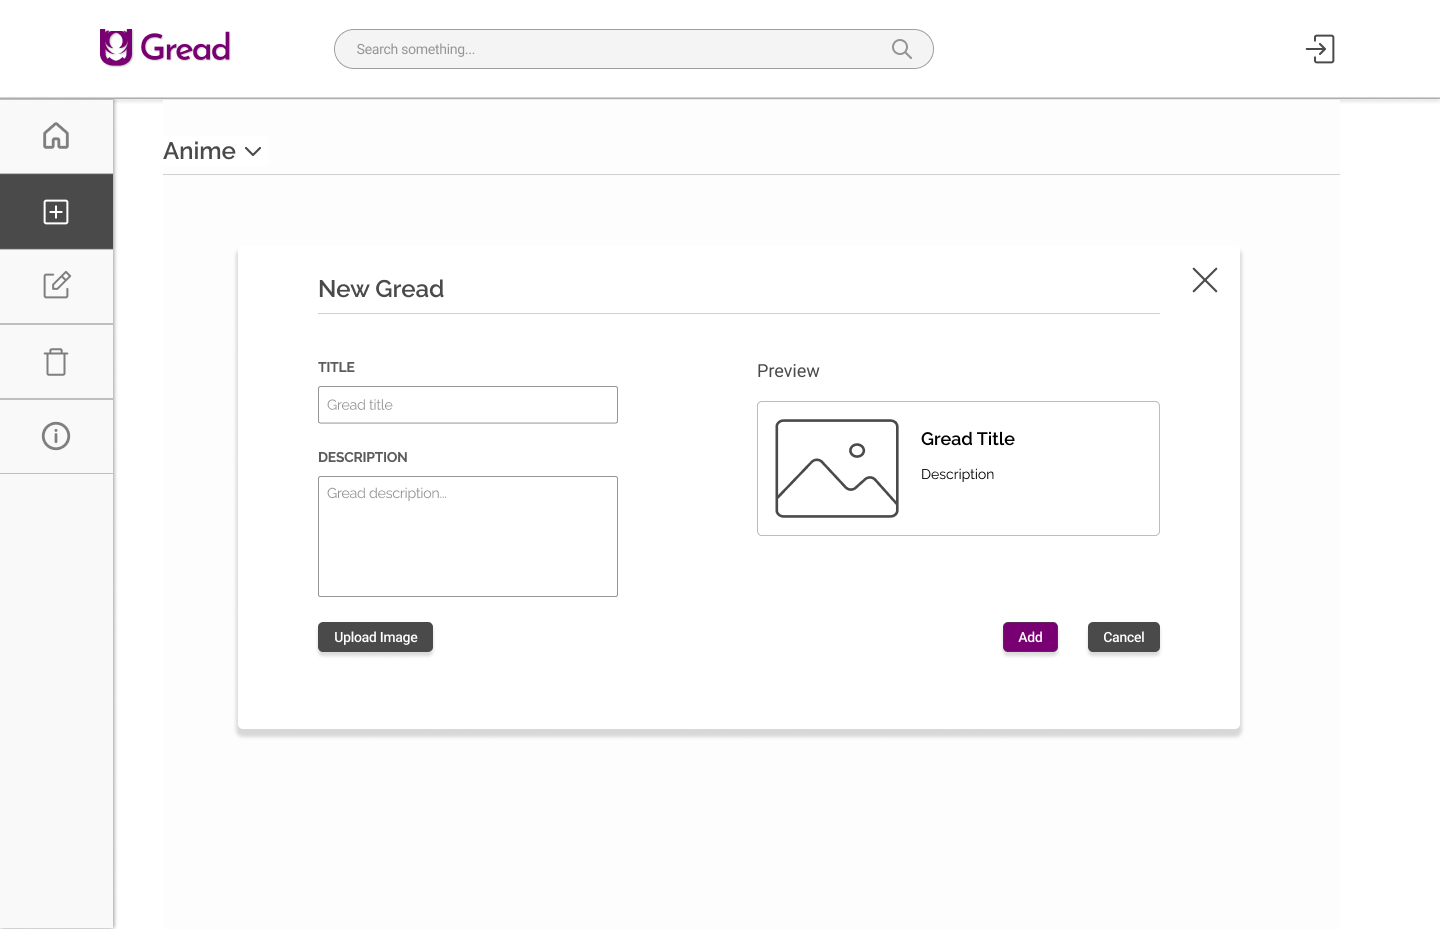
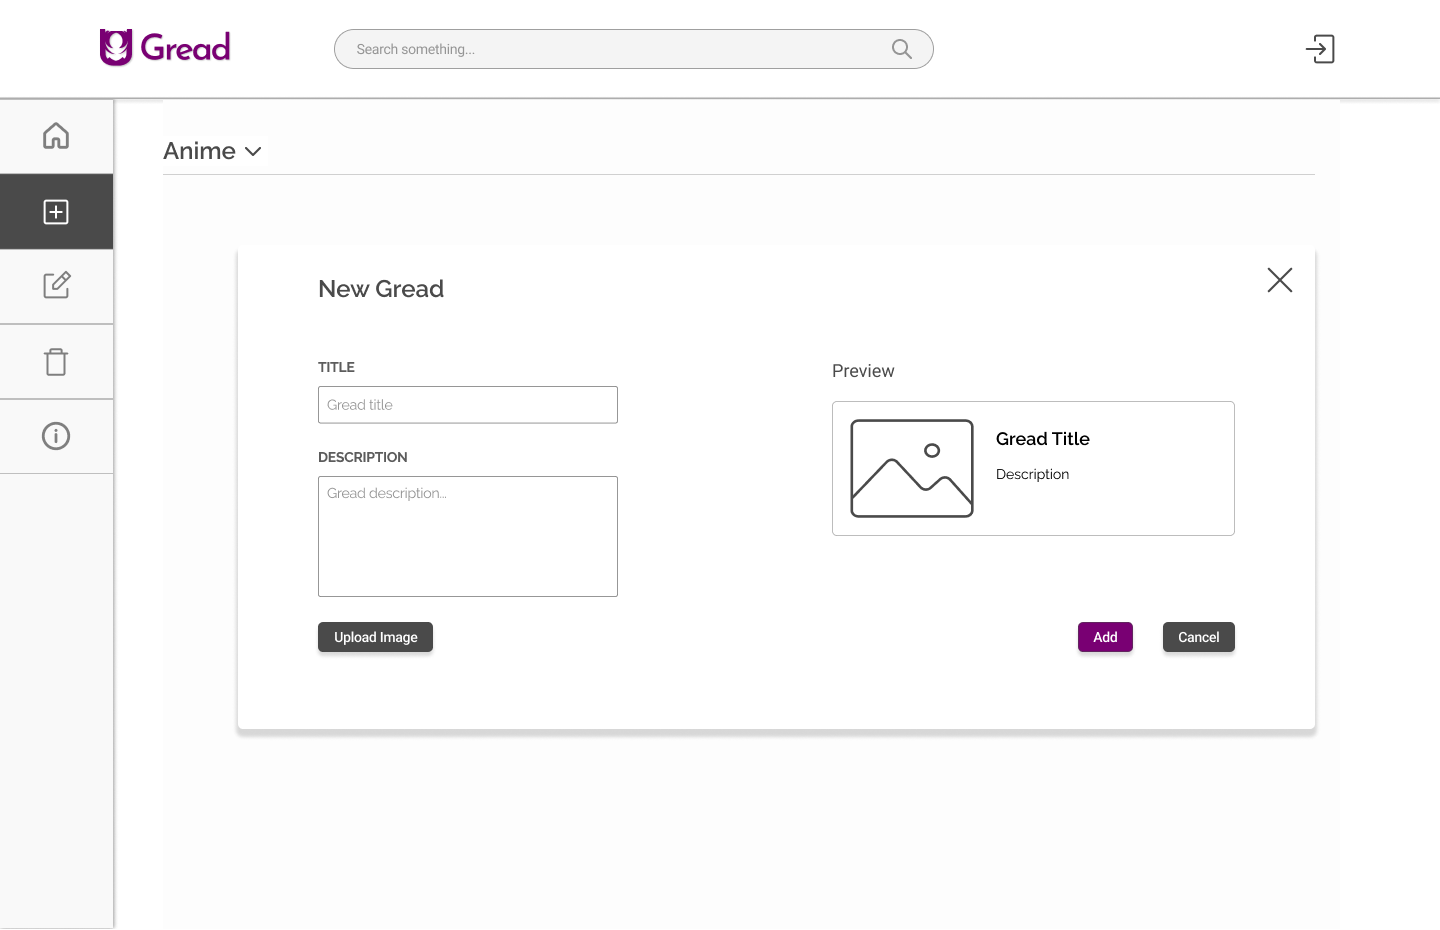
Rough mobile UI of dashboard template draft

diff --git a/utilities/css/dashboard.css b/utilities/css/dashboard.css
@@ -89,7 +89,7 @@
 .gread-content-container {
     display: grid;
     grid-template-columns: 1fr;
-    grid-template-rows: repeat(2, min-content);
+    grid-template-rows: repeat(3, min-content);
     padding: 2.1875rem 1.875rem 3.125rem;
 }
 .gread-content-header {
@@ -99,6 +99,7 @@
     grid-template-areas:
     "header filter"
     "divider divider";
+    margin-bottom: 2.6rem;
 }
 .gread-header-box {
     grid-area: header;
@@ -134,6 +135,79 @@
     font-size: 0.875rem;
     font-weight: 500;
     letter-spacing: -0.2px;
+}
+/* Greads */
+.gread-content-body {
+    display: flex;
+    flex-direction: column;
+}
+.gread-box {
+    position: relative;
+    max-height: 8.5rem;
+    display: flex;
+    column-gap: 1.125rem;
+    min-width: 0;
+    padding: 0.9375rem;
+    border: 0.7px solid #66666666;
+    border-radius: 4px;
+    margin-bottom: 1.5625rem;
+}
+.gread-text-box {
+    width: 100%;
+    display: flex;
+    flex-direction: column;
+    align-items: flex-start;
+    justify-content: center;
+}
+.gread-title {
+    font-size: 0.875rem;
+    margin-bottom: 0.45rem;
+    color: #000000;
+}
+.gread-description {
+    width: 90%;
+    font-size: 0.6875rem;
+    font-weight: 500;
+    line-height: 135%;
+    padding: 0.25rem 0rem;
+    margin: 0rem;
+    color: #000000;
+}
+.gread-description, .gread-thumbnail-box,.gread-thumbnail {
+    max-height: 73px;
+}
+.select-option-box {
+    position: absolute;
+    right: 0px;
+    top: 0px;
+}
+.checked, .unchecked {
+    display: none;
+}
+/* Pagination */
+.pagination-box {
+    display: flex;
+    align-items: center;
+    justify-content: center;
+}
+.pagination-link, .pagination-item {
+    display: block;
+    margin: 0rem 0.09375rem;
+    padding: 0.375rem 0.75rem;
+    border: 1px solid #4A4A4A80;
+    border-radius: 1px;
+}
+.pagination-link {
+    font-family: 'Josefin Sans', sans-serif;
+    font-size: 1rem;
+    color: var(--secondary);
+}
+.pagination-active {
+    color: #FFFFFFE6;
+    background-color: var(--primary);
+}
+.inactive {
+    color: var(--light-paragraph);
 }
 @media all and (min-width: 425px) {
     .d-nav-box {
@@ -205,14 +279,14 @@
     .main-container {
         display: grid;
         grid-template-columns: 0.7fr 8fr;
-        grid-template-rows: minmax(fit-content, max-content);
+        grid-template-rows: min-content;
     }
     .d-logo-box {
         margin-right: calc(5rem + 0.5rem);
     }
     .desktop-search-box {
         position: relative;
-        top: 0.1rem;
+        top: 0px;
         min-width: 35vw;
         max-width: 40vw;
         display: flex;
@@ -224,10 +298,15 @@
     .desktop-search-field {
         width: 100%;
         font-size: 0.875rem;
+        font-family: 'Roboto', sans-serif;
+        letter-spacing: -0.2px;
         padding: 0.45rem 3rem 0.45rem 1.25rem;
-        border: 1px solid hsla(0, 0%, 29%, 0.5);
+        border: 1px solid #4a4a4a80;
         border-radius: 25px;
         background-color: #f4f4f4;
+    }
+    .desktop-search-field::placeholder {
+        color: #959595;
     }
     .desktop-search-button {
         position: absolute;
@@ -251,14 +330,20 @@
     .mobile-search-container {
         display: none;
     }
+    .navigation {
+        background-color: #F9F9F9;
+        box-shadow: 2px 0px 4px hsla(0, 0%, 0%, 0.2), -1px 0px 4px hsla(0, 0%, 0%, 0.2);
+    }
     .navigation-actions {
-        height: 100vmin;
+        height: 100vh;
         flex-direction: column;
         align-items: center;
         justify-content: flex-start;
         padding: 0px;
         background-color: #F9F9F9;
-        box-shadow: 2px 0px 4px #00000040, -1px 0px 4px #00000040;
+    }
+    .d-nav-box {
+        box-shadow: none;
     }
     .action-box {
         width: 100%;
@@ -294,5 +379,67 @@
     .active-icon path {
         stroke: #FFFFFF;
         stroke-width: 2.83px;
+    }
+    .gread-content-container {
+        padding-left: 2.5rem;
+        padding-right: 5rem;
+    }
+    .gread-content-header {
+        grid-template-rows: repeat(3, min-content);
+        grid-template-areas:
+        "header header"
+        "divider divider"
+        "filter filter";
+        margin-bottom: 2rem;
+    }
+    .gread-content-body {
+        flex-direction: row;
+        flex-wrap: wrap;
+        column-gap: 20%;
+        padding: 0rem 0rem 4.0625rem 4.0625rem;        
+    }
+    .gread-box {
+        width: 40%;
+    }
+}
+@media all and (min-width: 1440px) {
+    /* Header */
+    .d-logo-box {
+        margin-right: 4.7rem;
+    }
+    .desktop-search-box {
+        min-width: 42.05vw;
+        max-width: 44vw;
+    }
+    .desktop-search-field {
+        padding: 0.45rem 3rem 0.45rem 1.1rem;
+    }
+    .desktop-search-button {
+        top: 1px;
+        right: 0.5rem;
+    }
+    /* Main */
+    .main-container {
+        grid-template-columns: 0.69fr 8fr;
+    }
+    .action-box {
+        padding: 1.02rem 0rem;
+    }
+    .action-icon {
+        transform: scale(1.1);
+    }
+    /* Gread Content */
+    .gread-content-container {
+        padding-top: 1.8rem;
+        padding-right: 6.25rem;
+    }
+    .gread-header {
+        font-size: 1.2rem;
+    }
+    .filter-box {
+        padding: 0.8rem 0rem 0rem;
+    }
+    .current-filter {
+        font-size: 0.8rem;
     }
 }

diff --git a/index.php b/index.php
@@ -27,7 +27,7 @@ require_once "./utilities/php_snippets/footer.php";
   ?>
   <link rel="preconnect" href="https://fonts.googleapis.com">
   <link rel="preconnect" href="https://fonts.gstatic.com" crossorigin>
-  <link href="https://fonts.googleapis.com/css2?family=Raleway:wght@300;400;500;600;700&family=Roboto:wght@400;500&display=swap" rel="stylesheet">
+  <link href="https://fonts.googleapis.com/css2?family=Josefin+Sans&family=Raleway:wght@300;400;500;600;700;800&family=Roboto:wght@400;500&display=swap" rel="stylesheet">
 </head>
 
 <body>
@@ -77,8 +77,7 @@ require_once "./utilities/php_snippets/footer.php";
     </div>
     <!-- Dashboard Logout Icon -->
     <svg class="d-logout-icon nav-icon" width="30" height="30" viewBox="0 0 30 30" fill="none" xmlns="http://www.w3.org/2000/svg">
-      <path d="M14.2929 18.0429C13.9024 18.4334 13.9024 19.0666 14.2929 19.4571C14.6834 19.8476 15.3166 19.8476 15.7071 19.4571L14.2929 18.0429ZM18.75 15L19.4571 15.7071C19.6446 15.5196 19.75 15.2652 19.75 15C19.75 14.7348 19.6446 14.4804 19.4571 14.2929L18.75 15ZM15.7071 10.5429C15.3166 10.1524 14.6834 10.1524 14.2929 10.5429C13.9024 10.9334 13.9024 11.5666 14.2929 11.9571L15.7071 10.5429ZM5 14C4.44772 14 4 14.4477 4 15C4 15.5523 4.44772 16 5 16L5 14ZM15.7071 19.4571L19.4571 15.7071L18.0429 14.2929L14.2929 18.0429L15.7071 19.4571ZM19.4571 14.2929L15.7071 10.5429L14.2929 11.9571L18.0429 15.7071L19.4571 14.2929ZM5 16L18.75 16V14L5 14L5 16Z" fill="#4A4A4A" />
-      <path d="M11.25 8.75V6.25C11.25 5.55964 11.8096 5 12.5 5H23.75C24.4404 5 25 5.55964 25 6.25V23.75C25 24.4404 24.4404 25 23.75 25H12.5C11.8096 25 11.25 24.4404 11.25 23.75V21.25" stroke="#4A4A4A" stroke-width="2" stroke-linecap="round" stroke-linejoin="round" />
+      <path d="M14.2929 18.0429C13.9024 18.4334 13.9024 19.0666 14.2929 19.4571C14.6834 19.8476 15.3166 19.8476 15.7071 19.4571L14.2929 18.0429ZM18.75 15L19.4571 15.7071C19.6446 15.5196 19.75 15.2652 19.75 15C19.75 14.7348 19.6446 14.4804 19.4571 14.2929L18.75 15ZM15.7071 10.5429C15.3166 10.1524 14.6834 10.1524 14.2929 10.5429C13.9024 10.9334 13.9024 11.5666 14.2929 11.9571L15.7071 10.5429ZM5 14C4.44772 14 4 14.4477 4 15C4 15.5523 4.44772 16 5 16L5 14ZM10.25 8.75C10.25 9.30228 10.6977 9.75 11.25 9.75C11.8023 9.75 12.25 9.30228 12.25 8.75H10.25ZM12.25 21.25C12.25 20.6977 11.8023 20.25 11.25 20.25C10.6977 20.25 10.25 20.6977 10.25 21.25H12.25ZM15.7071 19.4571L19.4571 15.7071L18.0429 14.2929L14.2929 18.0429L15.7071 19.4571ZM19.4571 14.2929L15.7071 10.5429L14.2929 11.9571L18.0429 15.7071L19.4571 14.2929ZM5 16L18.75 16L18.75 14L5 14L5 16ZM12.5 6H23.75V4H12.5V6ZM24 6.25V23.75H26V6.25H24ZM23.75 24H12.5V26H23.75V24ZM12.25 8.75V6.25H10.25V8.75H12.25ZM12.25 23.75V21.25H10.25V23.75H12.25ZM12.5 24C12.3619 24 12.25 23.8881 12.25 23.75H10.25C10.25 24.9926 11.2574 26 12.5 26V24ZM24 23.75C24 23.8881 23.8881 24 23.75 24V26C24.9926 26 26 24.9926 26 23.75H24ZM23.75 6C23.8881 6 24 6.11193 24 6.25H26C26 5.00736 24.9926 4 23.75 4V6ZM12.5 4C11.2574 4 10.25 5.00736 10.25 6.25H12.25C12.25 6.11193 12.3619 6 12.5 6V4Z" fill="#4A4A4A" />
     </svg>
   </header>
   <!-- Main -->
@@ -163,17 +162,151 @@ require_once "./utilities/php_snippets/footer.php";
       <!-- GREADS -->
       <div class="gread-content-body">
         <!-- Gread Container -->
-        <div>
+        <div class="gread-box">
           <!-- Image Box -->
-          <div></div>
+          <div class="gread-thumbnail-box">
+            <img class="gread-thumbnail" src="./assets/temp_img.png" alt="Anime thumbnail">
+          </div>
           <!-- Text Box -->
-          <div>
+          <div class="gread-text-box">
             <!-- Title -->
-            <div></div>
+            <strong class="gread-title">Demon Slayer</strong>
             <!-- Description -->
-            <div></div>
+            <p class="gread-description">One of my favorite shounen anime...</p>
+          </div>
+          <!-- Select option box -->
+          <div class="select-option-box">
+            <svg class="checked select-state-icon" width="30" height="30" viewBox="0 0 30 30" fill="none" xmlns="http://www.w3.org/2000/svg">
+              <path d="M10.5 14.5L13.3284 17.3285L18.9853 11.6716M8.25 7H20.75C21.4404 7 22 7.55964 22 8.25V20.75C22 21.4404 21.4404 22 20.75 22H8.25C7.55964 22 7 21.4404 7 20.75V8.25C7 7.55964 7.55964 7 8.25 7Z" stroke="#4A4A4A" stroke-width="2.13333" stroke-linecap="round" stroke-linejoin="round" />
+            </svg>
+            <svg class="unchecked select-state-icon" width="30" height="30" viewBox="0 0 30 30" fill="none" xmlns="http://www.w3.org/2000/svg">
+              <path d="M21.25 7.5H8.75C8.05964 7.5 7.5 8.05964 7.5 8.75V21.25C7.5 21.9404 8.05964 22.5 8.75 22.5H21.25C21.9404 22.5 22.5 21.9404 22.5 21.25V8.75C22.5 8.05964 21.9404 7.5 21.25 7.5Z" stroke="#4A4A4A" stroke-width="2" stroke-linecap="round" stroke-linejoin="round" />
+            </svg>
           </div>
         </div>
+        <div class="gread-box">
+          <!-- Image Box -->
+          <div class="gread-thumbnail-box">
+            <img class="gread-thumbnail" src="./assets/temp_img.png" alt="Anime thumbnail">
+          </div>
+          <!-- Text Box -->
+          <div class="gread-text-box">
+            <!-- Title -->
+            <strong class="gread-title">Demon Slayer</strong>
+            <!-- Description -->
+            <p class="gread-description">One of my favorite shounen anime...</p>
+          </div>
+          <!-- Select option box -->
+          <div class="select-option-box">
+            <svg class="checked select-state-icon" width="30" height="30" viewBox="0 0 30 30" fill="none" xmlns="http://www.w3.org/2000/svg">
+              <path d="M10.5 14.5L13.3284 17.3285L18.9853 11.6716M8.25 7H20.75C21.4404 7 22 7.55964 22 8.25V20.75C22 21.4404 21.4404 22 20.75 22H8.25C7.55964 22 7 21.4404 7 20.75V8.25C7 7.55964 7.55964 7 8.25 7Z" stroke="#4A4A4A" stroke-width="2.13333" stroke-linecap="round" stroke-linejoin="round" />
+            </svg>
+            <svg class="unchecked select-state-icon" width="30" height="30" viewBox="0 0 30 30" fill="none" xmlns="http://www.w3.org/2000/svg">
+              <path d="M21.25 7.5H8.75C8.05964 7.5 7.5 8.05964 7.5 8.75V21.25C7.5 21.9404 8.05964 22.5 8.75 22.5H21.25C21.9404 22.5 22.5 21.9404 22.5 21.25V8.75C22.5 8.05964 21.9404 7.5 21.25 7.5Z" stroke="#4A4A4A" stroke-width="2" stroke-linecap="round" stroke-linejoin="round" />
+            </svg>
+          </div>
+        </div>
+        <div class="gread-box">
+          <!-- Image Box -->
+          <div class="gread-thumbnail-box">
+            <img class="gread-thumbnail" src="./assets/temp_img.png" alt="Anime thumbnail">
+          </div>
+          <!-- Text Box -->
+          <div class="gread-text-box">
+            <!-- Title -->
+            <strong class="gread-title">Demon Slayer</strong>
+            <!-- Description -->
+            <p class="gread-description">One of my favorite shounen anime...</p>
+          </div>
+          <!-- Select option box -->
+          <div class="select-option-box">
+            <svg class="checked select-state-icon" width="30" height="30" viewBox="0 0 30 30" fill="none" xmlns="http://www.w3.org/2000/svg">
+              <path d="M10.5 14.5L13.3284 17.3285L18.9853 11.6716M8.25 7H20.75C21.4404 7 22 7.55964 22 8.25V20.75C22 21.4404 21.4404 22 20.75 22H8.25C7.55964 22 7 21.4404 7 20.75V8.25C7 7.55964 7.55964 7 8.25 7Z" stroke="#4A4A4A" stroke-width="2.13333" stroke-linecap="round" stroke-linejoin="round" />
+            </svg>
+            <svg class="unchecked select-state-icon" width="30" height="30" viewBox="0 0 30 30" fill="none" xmlns="http://www.w3.org/2000/svg">
+              <path d="M21.25 7.5H8.75C8.05964 7.5 7.5 8.05964 7.5 8.75V21.25C7.5 21.9404 8.05964 22.5 8.75 22.5H21.25C21.9404 22.5 22.5 21.9404 22.5 21.25V8.75C22.5 8.05964 21.9404 7.5 21.25 7.5Z" stroke="#4A4A4A" stroke-width="2" stroke-linecap="round" stroke-linejoin="round" />
+            </svg>
+          </div>
+        </div>
+        <div class="gread-box">
+          <!-- Image Box -->
+          <div class="gread-thumbnail-box">
+            <img class="gread-thumbnail" src="./assets/temp_img.png" alt="Anime thumbnail">
+          </div>
+          <!-- Text Box -->
+          <div class="gread-text-box">
+            <!-- Title -->
+            <strong class="gread-title">Demon Slayer</strong>
+            <!-- Description -->
+            <p class="gread-description">One of my favorite shounen anime...</p>
+          </div>
+          <!-- Select option box -->
+          <div class="select-option-box">
+            <svg class="checked select-state-icon" width="30" height="30" viewBox="0 0 30 30" fill="none" xmlns="http://www.w3.org/2000/svg">
+              <path d="M10.5 14.5L13.3284 17.3285L18.9853 11.6716M8.25 7H20.75C21.4404 7 22 7.55964 22 8.25V20.75C22 21.4404 21.4404 22 20.75 22H8.25C7.55964 22 7 21.4404 7 20.75V8.25C7 7.55964 7.55964 7 8.25 7Z" stroke="#4A4A4A" stroke-width="2.13333" stroke-linecap="round" stroke-linejoin="round" />
+            </svg>
+            <svg class="unchecked select-state-icon" width="30" height="30" viewBox="0 0 30 30" fill="none" xmlns="http://www.w3.org/2000/svg">
+              <path d="M21.25 7.5H8.75C8.05964 7.5 7.5 8.05964 7.5 8.75V21.25C7.5 21.9404 8.05964 22.5 8.75 22.5H21.25C21.9404 22.5 22.5 21.9404 22.5 21.25V8.75C22.5 8.05964 21.9404 7.5 21.25 7.5Z" stroke="#4A4A4A" stroke-width="2" stroke-linecap="round" stroke-linejoin="round" />
+            </svg>
+          </div>
+        </div>
+        <div class="gread-box">
+          <!-- Image Box -->
+          <div class="gread-thumbnail-box">
+            <img class="gread-thumbnail" src="./assets/temp_img.png" alt="Anime thumbnail">
+          </div>
+          <!-- Text Box -->
+          <div class="gread-text-box">
+            <!-- Title -->
+            <strong class="gread-title">Demon Slayer</strong>
+            <!-- Description -->
+            <p class="gread-description">One of my favorite shounen anime...</p>
+          </div>
+          <!-- Select option box -->
+          <div class="select-option-box">
+            <svg class="checked select-state-icon" width="30" height="30" viewBox="0 0 30 30" fill="none" xmlns="http://www.w3.org/2000/svg">
+              <path d="M10.5 14.5L13.3284 17.3285L18.9853 11.6716M8.25 7H20.75C21.4404 7 22 7.55964 22 8.25V20.75C22 21.4404 21.4404 22 20.75 22H8.25C7.55964 22 7 21.4404 7 20.75V8.25C7 7.55964 7.55964 7 8.25 7Z" stroke="#4A4A4A" stroke-width="2.13333" stroke-linecap="round" stroke-linejoin="round" />
+            </svg>
+            <svg class="unchecked select-state-icon" width="30" height="30" viewBox="0 0 30 30" fill="none" xmlns="http://www.w3.org/2000/svg">
+              <path d="M21.25 7.5H8.75C8.05964 7.5 7.5 8.05964 7.5 8.75V21.25C7.5 21.9404 8.05964 22.5 8.75 22.5H21.25C21.9404 22.5 22.5 21.9404 22.5 21.25V8.75C22.5 8.05964 21.9404 7.5 21.25 7.5Z" stroke="#4A4A4A" stroke-width="2" stroke-linecap="round" stroke-linejoin="round" />
+            </svg>
+          </div>
+        </div>
+        <div class="gread-box">
+          <!-- Image Box -->
+          <div class="gread-thumbnail-box">
+            <img class="gread-thumbnail" src="./assets/temp_img.png" alt="Anime thumbnail">
+          </div>
+          <!-- Text Box -->
+          <div class="gread-text-box">
+            <!-- Title -->
+            <strong class="gread-title">Demon Slayer</strong>
+            <!-- Description -->
+            <p class="gread-description">One of my favorite shounen anime...</p>
+          </div>
+          <!-- Select option box -->
+          <div class="select-option-box">
+            <svg class="checked select-state-icon" width="30" height="30" viewBox="0 0 30 30" fill="none" xmlns="http://www.w3.org/2000/svg">
+              <path d="M10.5 14.5L13.3284 17.3285L18.9853 11.6716M8.25 7H20.75C21.4404 7 22 7.55964 22 8.25V20.75C22 21.4404 21.4404 22 20.75 22H8.25C7.55964 22 7 21.4404 7 20.75V8.25C7 7.55964 7.55964 7 8.25 7Z" stroke="#4A4A4A" stroke-width="2.13333" stroke-linecap="round" stroke-linejoin="round" />
+            </svg>
+            <svg class="unchecked select-state-icon" width="30" height="30" viewBox="0 0 30 30" fill="none" xmlns="http://www.w3.org/2000/svg">
+              <path d="M21.25 7.5H8.75C8.05964 7.5 7.5 8.05964 7.5 8.75V21.25C7.5 21.9404 8.05964 22.5 8.75 22.5H21.25C21.9404 22.5 22.5 21.9404 22.5 21.25V8.75C22.5 8.05964 21.9404 7.5 21.25 7.5Z" stroke="#4A4A4A" stroke-width="2" stroke-linecap="round" stroke-linejoin="round" />
+            </svg>
+          </div>
+        </div>
+      </div>
+      <!-- Pagination -->
+      <div class="pagination-box">
+        <!-- Left Double -->
+        <a class="pagination-link multi-prev inactive" href="#">&laquo;</a>
+        <!-- Pages -->
+        <a class="pagination-link pagination-active" href="#php inserts here">1</a>
+        <a class="pagination-link" href="#php inserts here">2</a>
+        <a class="pagination-link" href="#php inserts here">3</a>
+        <a class="pagination-link" href="#php inserts here">4</a>
+        <a class="pagination-link" href="#php inserts here">5</a>
+        <!-- Right double -->
+        <a class="pagination-link multi-next" href="#">&raquo;</a>
       </div>
     </section>
   </main>
